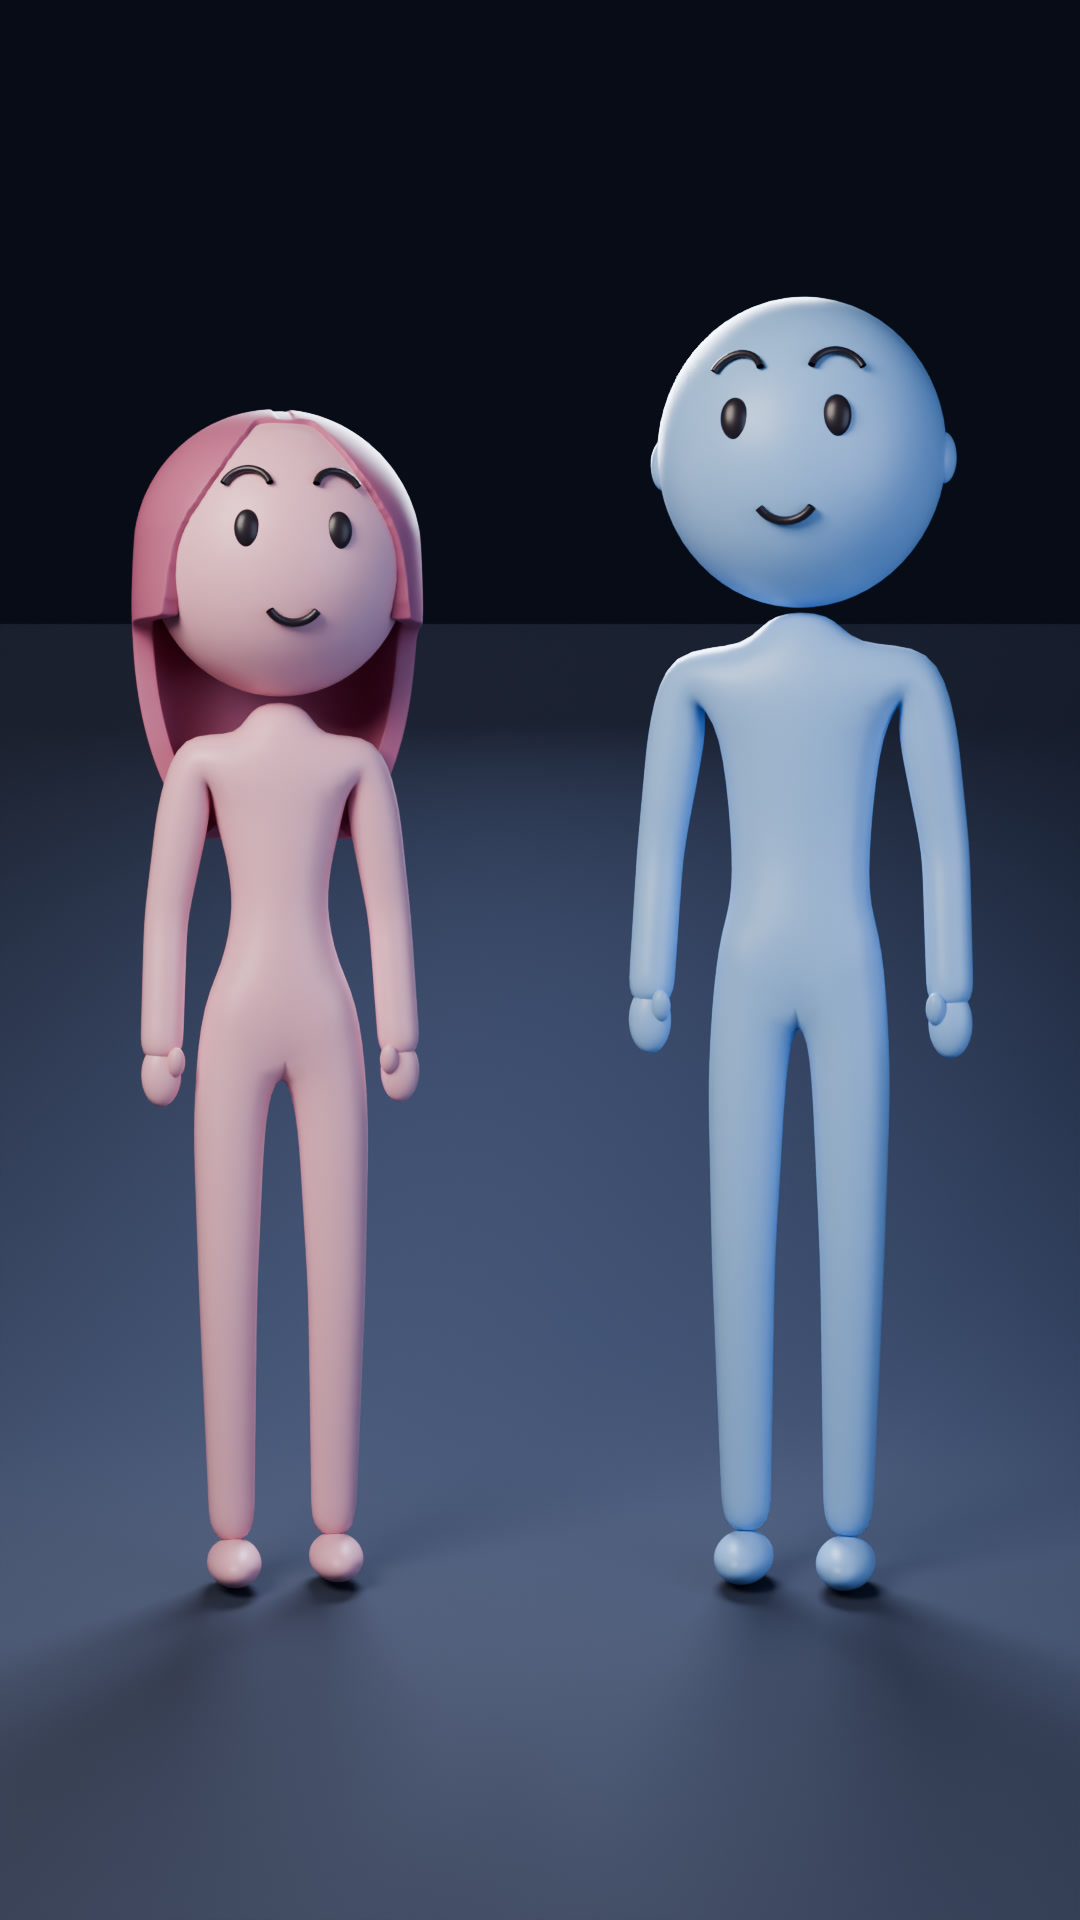
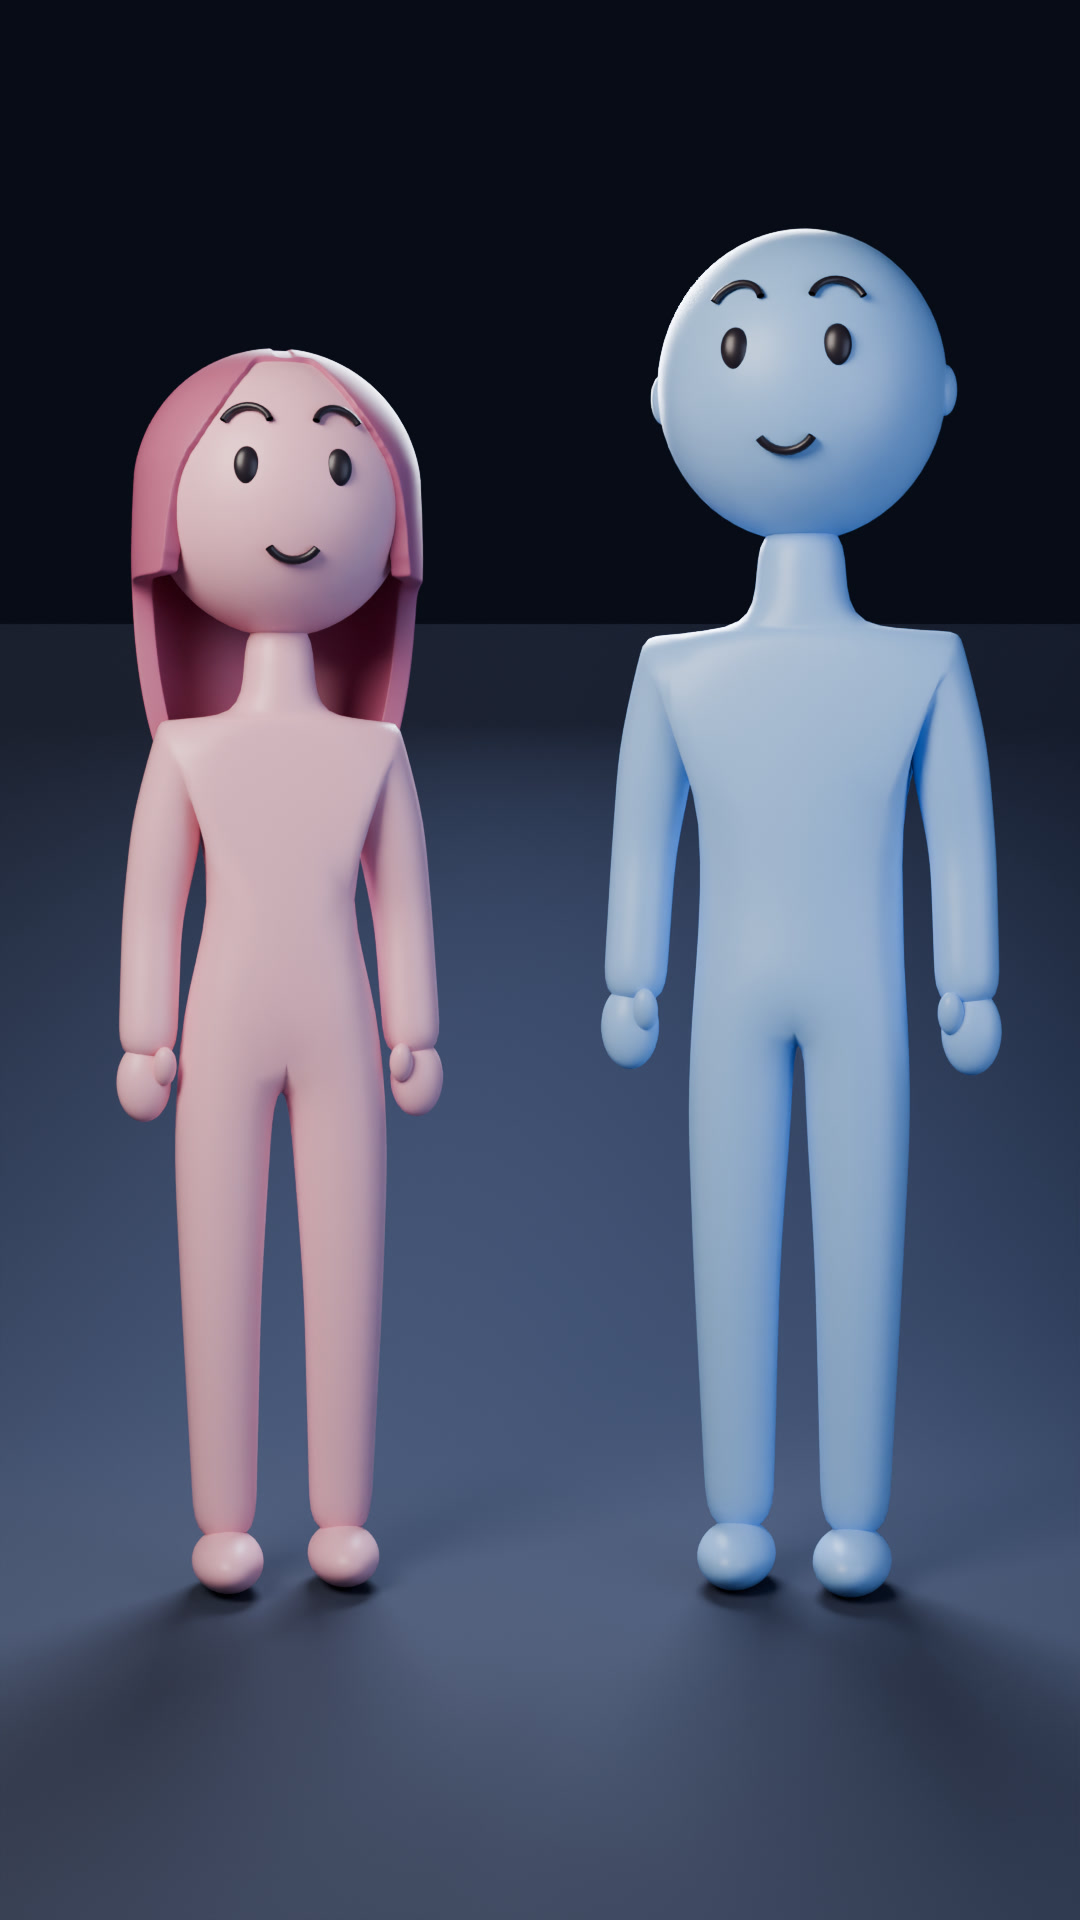
Thicker bodies, bigger hands and feet, visible neck
Claude-Session: https://claude.ai/code/session_01FQFJKx8X2643G2hLZWtcZT

Changed region(s): [[0.55, 0.0938, 0.9472, 0.8438], [0.0917, 0.1562, 0.4278, 0.8438], [0.7028, 0.5312, 0.7639, 0.7812]]

diff --git a/blender_figures/figures.py b/blender_figures/figures.py
@@ -73,16 +73,16 @@ def figure(w):
     """standing at the origin, facing -Y. returns list of objects."""
     start = len(made)
     k = 1.0 if w else 1.1
-    sw = 0.125 if w else 0.17
+    sw = 0.145 if w else 0.195
     z = lambda v: v * k
     P = {
-        "pelvis": (0, 0, z(0.82)), "waist": (0, 0.005, z(1.0)), "chest": (0, 0, z(1.16)), "neck": (0, 0, z(1.3)),
-        "hipL": (-0.075, 0, z(0.8)), "kneeL": (-0.08, -0.01, z(0.43)), "ankL": (-0.075, 0.0, z(0.06)),
-        "hipR": (0.075, 0, z(0.8)), "kneeR": (0.08, -0.01, z(0.43)), "ankR": (0.075, 0.0, z(0.06)),
+        "pelvis": (0, 0, z(0.82)), "waist": (0, 0.005, z(1.0)), "chest": (0, 0, z(1.16)), "nbase": (0, 0, z(1.27)), "neck": (0, 0, z(1.42)),
+        "hipL": (-0.085, 0, z(0.8)), "kneeL": (-0.09, -0.01, z(0.43)), "ankL": (-0.085, 0.0, z(0.06)),
+        "hipR": (0.085, 0, z(0.8)), "kneeR": (0.09, -0.01, z(0.43)), "ankR": (0.085, 0.0, z(0.06)),
         "shL": (-sw, 0, z(1.22)), "elL": (-sw - 0.04, 0.02, z(0.98)), "haL": (-sw - 0.05, -0.01, z(0.77)),
         "shR": (sw, 0, z(1.22)), "elR": (sw + 0.04, 0.02, z(0.98)), "haR": (sw + 0.05, -0.01, z(0.77)),
     }
-    E = [("pelvis", "waist"), ("waist", "chest"), ("chest", "neck"), ("pelvis", "hipL"), ("hipL", "kneeL"), ("kneeL", "ankL"),
+    E = [("pelvis", "waist"), ("waist", "chest"), ("chest", "nbase"), ("nbase", "neck"), ("pelvis", "hipL"), ("hipL", "kneeL"), ("kneeL", "ankL"),
          ("pelvis", "hipR"), ("hipR", "kneeR"), ("kneeR", "ankR"), ("chest", "shL"), ("shL", "elL"), ("elL", "haL"),
          ("chest", "shR"), ("shR", "elR"), ("elR", "haR")]
     r = {"pelvis": ((0.112 if w else 0.105), 0.08), "waist": ((0.072 if w else 0.11), 0.068), "chest": ((0.1 if w else 0.135), (0.075 if w else 0.088)),
@@ -90,16 +90,19 @@ def figure(w):
          "shL": 0.046 * k, "elL": 0.034 * k, "haL": 0.033 * k, "shR": 0.046 * k, "elR": 0.034 * k, "haR": 0.033 * k}
     N = list(P)
     m = PINK if w else BLUE
+    T = 1.38
+    r = {n: ((v[0] * T, v[1] * T) if isinstance(v, tuple) else v * T) for n, v in r.items()}
+    r["nbase"] = (0.062 if w else 0.078); r["neck"] = (0.05 if w else 0.064)
     skin("body", [P[n] for n in N], [(N.index(a), N.index(b)) for a, b in E], [r[n] for n in N], m)
     # mitten hands with a small thumb, rounded feet
     for s in (-1, 1):
-        hx = s * (sw + 0.05)
-        sphere("hand", (hx, -0.01, z(0.755)), 0.038 * k, m, (0.75, 0.62, 1.2))
-        sphere("thumb", (hx - s * 0.02, -0.032, z(0.775)), 0.016 * k, m, (0.8, 0.8, 1.4), (0.3, 0, 0))
-        sphere("foot", (s * 0.075, -0.03, 0.04), 0.052 * k, m, (0.75, 1.4, 0.62))
+        hx = s * (sw + 0.055)
+        sphere("hand", (hx, -0.01, z(0.745)), 0.05 * k, m, (0.78, 0.65, 1.15))
+        sphere("thumb", (hx - s * 0.028, -0.04, z(0.77)), 0.021 * k, m, (0.8, 0.8, 1.4), (0.3, 0, 0))
+        sphere("foot", (s * 0.085, -0.035, 0.045), 0.066 * k, m, (0.78, 1.35, 0.65))
     # head
     R = 0.195 * k
-    H = Vector((0, -0.005, z(1.3) + 0.01 + R))
+    H = Vector((0, -0.005, z(1.42) + R * 0.88))
     sphere("head", H, R, m, (0.97, 0.98, 1.03))
     F = (0, -1, 0)
     for s in (-1, 1):                     # open eyes: glossy dark ovals + brows
